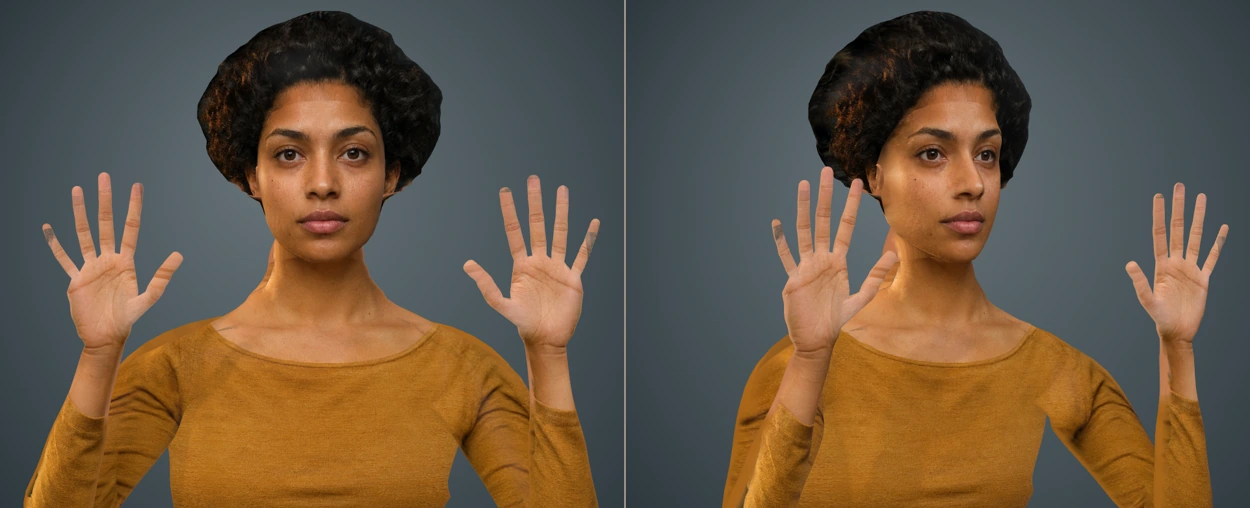
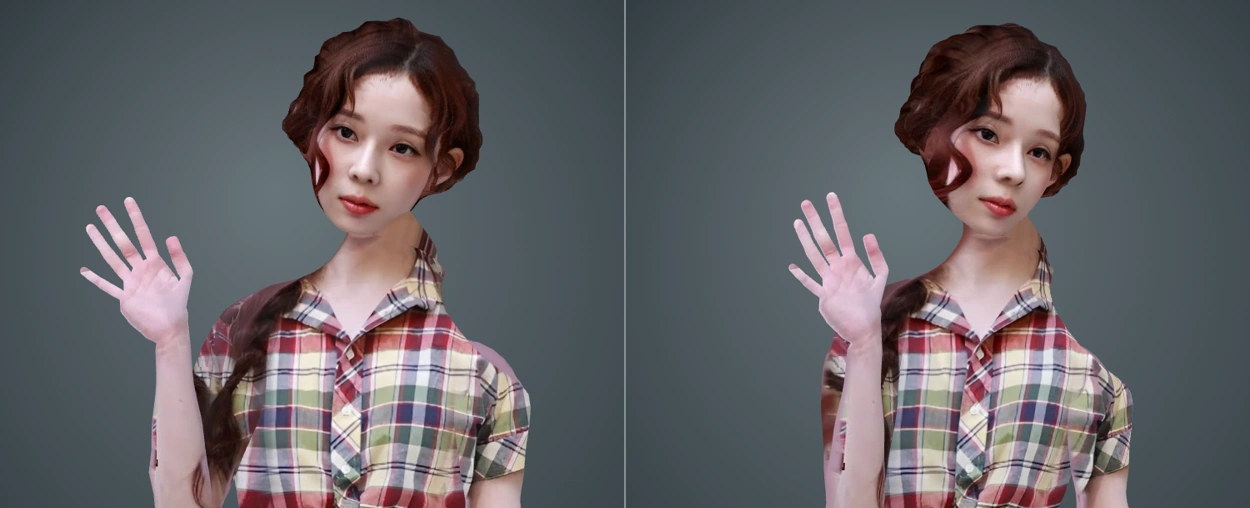
Feature Winter of aespa as the default Portrait Loom study

diff --git a/docs/portrait-stage/index.html b/docs/portrait-stage/index.html
@@ -1,5 +1,5 @@
 <!doctype html>
-<html lang="ko"><head><meta charset="utf-8"><meta name="viewport" content="width=device-width,initial-scale=1,viewport-fit=cover"><meta name="theme-color" content="#eee9e1"><meta name="description" content="Build and perform a textured 3D portrait from a photograph on your device."><title>Portrait Loom · Night Studies</title><link rel="icon" href="../mark.svg"><link rel="stylesheet" href="stage.css?v=204e5dbbc6"><script src="../i18n.js?v=e4aa568ccb"></script><script src="../common-locales.js?v=d89a249e9d"></script><script defer src="../library.js?v=e522b8cf6c"></script><script type="module" src="stage.mjs?v=1e95abb9b8"></script></head><body>
+<html lang="ko"><head><meta charset="utf-8"><meta name="viewport" content="width=device-width,initial-scale=1,viewport-fit=cover"><meta name="theme-color" content="#eee9e1"><meta name="description" content="Build and perform a textured 3D portrait from a photograph on your device."><title>Portrait Loom · Night Studies</title><link rel="icon" href="../mark.svg"><link rel="stylesheet" href="stage.css?v=20f4a73c2e"><script src="../i18n.js?v=e4aa568ccb"></script><script src="../common-locales.js?v=d89a249e9d"></script><script defer src="../library.js?v=e522b8cf6c"></script><script type="module" src="stage.mjs?v=981d91571f"></script></head><body>
 <main><nav class="topbar"><a href="../index.html" class="wordmark"><span class="mark" aria-hidden="true"></span>Night Studies</a><div class="nav-actions"><span data-language-picker></span><button type="button" data-library data-msg="shelf">작업 보관함</button><button type="button" class="nav-save" data-save-project data-msg="save">프로젝트 저장</button></div></nav>
 <header class="mast"><div><h1>Portrait <i>Loom</i></h1></div><p data-msg="intro">사진 한 장에서 입체 인물을 만들고, 조명을 고른 뒤 내 표정과 손으로 연기하세요.</p></header>
 <div class="workstation"><section class="stage-panel" aria-labelledby="stageHeading"><div class="stage-bar"><h2 id="stageHeading"><i class="lamp"></i><span data-msg="stage">초상 무대</span></h2><span class="spec" id="rigInfo" aria-live="polite"></span></div>
@@ -10,9 +10,10 @@
 <label class="view-control"><span data-msg="zoom">확대</span><input id="zoom" type="range" min="65" max="165" value="100"><output id="zoomValue" for="zoom">100%</output></label>
 <label class="light-control"><span data-msg="light">조명</span><select id="light"><option value="0" data-msg="softbox">소프트박스</option><option value="1" data-msg="windowLight">창가광</option><option value="2" data-msg="edgeLight">윤곽광</option></select></label>
 <button class="link" id="homeView" data-msg="resetView" type="button">시점 초기화</button></div>
-<div class="film-note"><div><b id="photoName" data-no-i18n>Atelier No. 1</b><span id="photoMeta" class="spec"></span></div><small id="modelStatus" class="spec" role="status"></small><div class="file-actions"><button id="glb" class="soft" type="button" data-msg="glb" disabled>3D 모델 저장</button><button id="download" class="print" type="button" disabled><span aria-hidden="true">↓</span><span data-msg="png">PNG 저장</span></button></div></div>
+<div class="film-note"><div><b id="photoName" data-no-i18n>에스파 윈터</b><span id="photoMeta" class="spec"></span></div><small id="modelStatus" class="spec" role="status"></small><div class="file-actions"><button id="glb" class="soft" type="button" data-msg="glb" disabled>3D 모델 저장</button><button id="download" class="print" type="button" disabled><span aria-hidden="true">↓</span><span data-msg="png">PNG 저장</span></button></div></div>
+<p id="sampleCredit" class="source-credit"><span data-msg="winterStudy">사진으로 재구성한 3D 인물</span> · <a href="https://commons.wikimedia.org/?curid=162907797" target="_blank" rel="noopener noreferrer">티비텐 (TV10)</a> · <a href="https://creativecommons.org/licenses/by/3.0/" target="_blank" rel="noopener noreferrer">CC BY 3.0</a></p>
 <div class="ns-performance" data-record-stage="portrait" data-filename="Portrait-Loom"></div>
-<section class="geometry" id="geometry" hidden><header><h3 data-msg="geometry">원판 기하 측정</h3><small id="geometryMode"></small></header><dl><div><dt data-msg="faceRatio">얼굴 가로 / 세로</dt><dd id="ratioMetric"></dd></div><div><dt data-msg="eyeRatio">양 눈 간격 / 얼굴 폭</dt><dd id="eyeMetric"></dd></div><div><dt data-msg="eyeTilt">눈 선 기울기</dt><dd id="tiltMetric"></dd></div></dl><details class="metric-detail"><summary data-msg="features">눈과 입 측정</summary><dl><div><dt data-msg="eyeOpening">눈 높이 / 너비 · 좌/우</dt><dd id="openingMetric"></dd></div><div><dt data-msg="mouthWidth">입 너비 / 얼굴 폭</dt><dd id="mouthMetric"></dd></div><div><dt data-msg="lipGap">입술 간격 / 입 너비</dt><dd id="gapMetric"></dd></div></dl></details></section></section><aside class="console" data-active="source"><div class="console-tabs"><button type="button" data-module="source" data-msg="plate" aria-pressed="true">사진 원판</button><button type="button" data-module="drive" data-msg="performer" aria-pressed="false">카메라 연기</button><button type="button" data-module="pose" data-msg="manual" aria-pressed="false">수동 조절</button></div><section class="source module"><header><h2 data-msg="plate">사진 원판</h2></header><div class="source-line"><img id="thumbnail" src="../assets/portrait-model.webp" alt=""><div><button class="soft" id="upload" type="button" data-msg="upload">내 사진 열기</button><p data-msg="formats">JPG · PNG · WebP, 18 MB 이하</p></div></div><div id="people" hidden></div><div class="quiet-row"><button id="areaBtn" type="button" class="link" data-msg="area">인물 영역 선택</button><button id="clearArea" type="button" class="link" hidden data-msg="fullImage">전체 사진 분석</button><button id="useExample" type="button" class="link" hidden data-msg="sample">기본 사진</button><button id="anchorBtn" class="link" type="button" data-msg="mark">얼굴 위치 지정</button><button id="cancelAnchor" class="link" type="button" hidden data-msg="cancel">취소</button></div><details class="setup-details"><summary data-msg="setup">세부 위치 지정</summary><div class="quiet-row"><button class="soft" id="detailFace" type="button" data-msg="detailFace">눈과 입 직접 표시</button><button class="soft" id="traceHand" type="button" data-msg="traceHand">보이는 손가락 표시</button><button class="link" type="button" id="clearMarks" hidden data-msg="clearMarks">수동 표시 해제</button></div></details><input id="photoFile" type="file" accept="image/jpeg,image/png,image/webp,image/gif,image/bmp,image/avif,image/heic,image/heif,.avif,.heic,.heif,.bmp,.gif" hidden><p id="sourceState" role="status"></p></section>
+<section class="geometry" id="geometry" hidden><header><h3 data-msg="geometry">원판 기하 측정</h3><small id="geometryMode"></small></header><dl><div><dt data-msg="faceRatio">얼굴 가로 / 세로</dt><dd id="ratioMetric"></dd></div><div><dt data-msg="eyeRatio">양 눈 간격 / 얼굴 폭</dt><dd id="eyeMetric"></dd></div><div><dt data-msg="eyeTilt">눈 선 기울기</dt><dd id="tiltMetric"></dd></div></dl><details class="metric-detail"><summary data-msg="features">눈과 입 측정</summary><dl><div><dt data-msg="eyeOpening">눈 높이 / 너비 · 좌/우</dt><dd id="openingMetric"></dd></div><div><dt data-msg="mouthWidth">입 너비 / 얼굴 폭</dt><dd id="mouthMetric"></dd></div><div><dt data-msg="lipGap">입술 간격 / 입 너비</dt><dd id="gapMetric"></dd></div></dl></details></section></section><aside class="console" data-active="source"><div class="console-tabs"><button type="button" data-module="source" data-msg="plate" aria-pressed="true">사진 원판</button><button type="button" data-module="drive" data-msg="performer" aria-pressed="false">카메라 연기</button><button type="button" data-module="pose" data-msg="manual" aria-pressed="false">수동 조절</button></div><section class="source module"><header><h2 data-msg="plate">사진 원판</h2></header><div class="source-line"><img id="thumbnail" src="../assets/winter-wave.webp" alt=""><div><button class="soft" id="upload" type="button" data-msg="upload">내 사진 열기</button><p data-msg="formats">JPG · PNG · WebP, 18 MB 이하</p></div></div><div id="people" hidden></div><div class="quiet-row"><button id="areaBtn" type="button" class="link" data-msg="area">인물 영역 선택</button><button id="clearArea" type="button" class="link" hidden data-msg="fullImage">전체 사진 분석</button><button id="useExample" type="button" class="link" hidden data-msg="sample">기본 사진</button><button id="anchorBtn" class="link" type="button" data-msg="mark">얼굴 위치 지정</button><button id="cancelAnchor" class="link" type="button" hidden data-msg="cancel">취소</button></div><details class="setup-details"><summary data-msg="setup">세부 위치 지정</summary><div class="quiet-row"><button class="soft" id="detailFace" type="button" data-msg="detailFace">눈과 입 직접 표시</button><button class="soft" id="traceHand" type="button" data-msg="traceHand">보이는 손가락 표시</button><button class="link" type="button" id="clearMarks" hidden data-msg="clearMarks">수동 표시 해제</button></div></details><input id="photoFile" type="file" accept="image/jpeg,image/png,image/webp,image/gif,image/bmp,image/avif,image/heic,image/heif,.avif,.heic,.heif,.bmp,.gif" hidden><p id="sourceState" role="status"></p></section>
 <section class="drive module"><header><h2 data-msg="performer">카메라 연기</h2></header><p class="hint" data-msg="cameraHint">정면을 보며 카메라를 켜고, 편안한 표정으로 기준 자세를 맞추세요.</p><button class="camera" id="camera" type="button" data-msg="start">카메라 켜기</button><div class="monitor" hidden><video id="video" muted playsinline></video><div><b data-msg="monitor">라이브 입력</b><small id="channels"></small></div></div><div class="cam-options" hidden><button class="soft" id="calibrate" type="button" data-msg="calibrate">기준 자세 다시 맞추기</button><label class="slider"><span data-msg="response">반응 강도</span><input type="range" id="gain" min="40" max="170" step="1" value="100"><output for="gain">100%</output></label></div><label class="slider body-option" hidden><span data-msg="bodyGain">몸 움직임</span><input type="range" id="bodyGain" min="0" max="125" value="80"><output for="bodyGain">80%</output></label><p id="trackingState" role="status"></p></section>
 <section class="module pose"><header><h2 data-msg="manual">수동 조절</h2></header><div id="sliders"></div><details class="setup-details"><summary data-msg="expressionDetails">시선과 좌우 표정</summary><div id="fineSliders"></div></details><button id="reset" type="button" class="link" data-msg="reset">수동 조절 초기화</button></section>
-</aside></div><footer><p data-msg="privacy">사진과 카메라 영상은 이 기기에서 처리됩니다.</p><span>Night Studies</span></footer><div id="notice" role="status" aria-live="polite"></div></main><script defer src="../performance-record.js?v=0b50e85fee"></script></body></html>
+</aside></div><footer><p data-msg="privacy">사진과 카메라 영상은 이 기기에서 처리됩니다.</p><span>Night Studies</span></footer><div id="notice" role="status" aria-live="polite"></div></main><script defer src="../performance-record.js?v=1775e8c7f4"></script></body></html>

diff --git a/docs/index.html b/docs/index.html
@@ -25,7 +25,7 @@
     <div class="stages-head"><h2 id="stages-title">카메라 무대</h2><p>카메라 영상과 사진은 기기에서 처리됩니다.</p></div>
     <div class="stage-shelf">
       <a class="stage-link" href="spell-stage/"><div class="stage-art"><img src="assets/astral-cover.webp?v=8d57b9cbe1" alt="카메라 속 손 주위로 모여드는 은빛 입자 구름"></div><div class="stage-details"><div><h3 lang="en" translate="no">Astral Atelier</h3><p>은빛 입자를 손바닥에 모아 두 손 사이로 늘이고 흩뿌립니다.</p></div><span>마법 무대 열기</span></div></a>
-      <a class="stage-link" href="portrait-stage/"><div class="stage-art"><img src="assets/loom-cover.webp?v=9b03b77481" alt="한 장의 사진에서 만든 3D 인물의 정면과 사선 시점"></div><div class="stage-details"><div><h3 lang="en" translate="no">Portrait Loom</h3><p>사진으로 3D 인물을 만들어 돌려 보고 내 표정과 손으로 연기합니다.</p></div><span>인물 무대 열기</span></div></a>
+      <a class="stage-link" href="portrait-stage/"><div class="stage-art"><img src="assets/loom-cover.webp?v=97ac20e2a3" alt="한 장의 사진에서 만든 3D 인물의 정면과 사선 시점"></div><div class="stage-details"><div><h3 lang="en" translate="no">Portrait Loom</h3><p>사진으로 3D 인물을 만들어 돌려 보고 내 표정과 손으로 연기합니다.</p></div><span>인물 무대 열기</span></div></a>
     </div>
   </section>
   <section class="desk" id="studios" aria-label="편집실과 하우스 에디션">
@@ -50,6 +50,6 @@
   </section>
   <noscript><div class="noscript">JavaScript를 켜 주세요. Enable JavaScript. Bitte JavaScript aktivieren. <a href="last-train/">막차</a> · <a href="foley-club/">폴리 클럽</a> · <a href="light-table/">라이트 테이블</a></div></noscript>
 </main>
-<footer class="shell"><span>Night Studies <i>Youngsoo Oh</i></span><a href="https://github.com/oyoungsoo97-hub/night-studies">GitHub 소스</a></footer>
+<footer class="shell"><span>Night Studies <i>Youngsoo Oh</i></span><a href="https://commons.wikimedia.org/?curid=162907797" lang="en" translate="no">Winter · TV10</a><a href="https://creativecommons.org/licenses/by/3.0/" lang="en" translate="no">CC BY 3.0</a><a href="https://github.com/oyoungsoo97-hub/night-studies">GitHub 소스</a></footer>
 </body>
 </html>

diff --git a/docs/performance-record.js b/docs/performance-record.js
@@ -40,7 +40,12 @@
     try{
       const canvas=document.createElement('canvas'), scale=Math.min(1,1280/Math.max(source.width,source.height));
       canvas.width=Math.max(2,2*Math.round(source.width*scale/2));canvas.height=Math.max(2,2*Math.round(source.height*scale/2));
-      const ctx=canvas.getContext('2d',{alpha:false});ctx.drawImage(source,0,0,canvas.width,canvas.height);
+      const ctx=canvas.getContext('2d',{alpha:false});
+      function drawFrame(){
+        ctx.drawImage(source,0,0,canvas.width,canvas.height);
+        if(host.dataset.recordStage==='portrait')source.dispatchEvent(new CustomEvent('night-record-frame',{detail:ctx}));
+      }
+      drawFrame();
       stream=canvas.captureStream(24);
       const mix=audioTrack();
       if(mix)stream.addTrack(mix.clone());
@@ -60,7 +65,7 @@
         recorder=null;labels();
       };
       let last=0;started=performance.now();problem=false;
-      function tick(now){if(!recorder||recorder.state!=='recording')return;if(now-last>=1000/25){ctx.drawImage(source,0,0,canvas.width,canvas.height);last=now;}paint=requestAnimationFrame(tick);}
+      function tick(now){if(!recorder||recorder.state!=='recording')return;if(now-last>=1000/25){drawFrame();last=now;}paint=requestAnimationFrame(tick);}
       recorder.start(250);paint=requestAnimationFrame(tick);labels();
       clock=setInterval(()=>{if(performance.now()-started>=maxSeconds*1000)finish();else labels();},200);
     }catch{cleanup();recorder=null;problem=true;labels();}

diff --git a/docs/portrait-stage/stage.css b/docs/portrait-stage/stage.css
@@ -10,3 +10,6 @@
 .render-desk{display:flex;flex-wrap:wrap;align-items:center;gap:12px 22px;padding:12px 15px;background:#e2ded7;border:1px solid #ccc3c7;border-top:0}
 .view-control,.light-control,.file-actions{display:flex;align-items:center;gap:8px}.view-control,.light-control{font-size:14px}.view-control input{width:clamp(60px,8vw,120px);accent-color:#645168}.view-control output{min-width:3.3ch;font:13px ui-monospace,monospace}.light-control select{padding:5px;border:1px solid #afa3ab;background:#f4f0ea;font:inherit}.film-note{gap:12px;flex-wrap:wrap}.film-note #modelStatus{margin-inline-start:auto}.file-actions{margin-left:0}.framing #portrait{touch-action:none}.render-desk .link{margin-inline-start:auto}.file-actions button{min-height:38px}
 @media(max-width:650px){.render-desk{gap:9px 16px}.render-desk .link{margin-inline-start:0}.file-actions{margin-inline-start:auto}.film-note #modelStatus{flex:1;text-align:end}.film-note{row-gap:7px}}
+
+.source-credit{margin:.6rem 0 0;font-size:.875rem;line-height:1.5;color:inherit}
+.source-credit a{color:inherit;text-underline-offset:.15em}

diff --git a/docs/spell-stage/index.html b/docs/spell-stage/index.html
@@ -35,4 +35,4 @@
 </aside>
 </div></main>
 <dialog id="clearDialog"><form method="dialog"><p data-t="clearAsk"></p><div><button value="cancel" data-t="cancel" autofocus></button><button class="save-project" value="clear" data-t="clear"></button></div></form></dialog>
-<script defer src="../performance-record.js?v=0b50e85fee"></script></body></html>
+<script defer src="../performance-record.js?v=1775e8c7f4"></script></body></html>

diff --git a/CREDITS.md b/CREDITS.md
@@ -1,10 +1,20 @@
 # Credits · 제작 정보 · Bildnachweise
 
-**English.** The station, carriage, corridor, figures, diner, portrait, lake and spell textures are original generated imagery for Night Studies. The portrait shows a fictional adult with both palms visible, photographed against a teal studio backdrop. It was generated for this release with the built-in ImageGen tool. The Foley instruments and the stereo spell sounds are synthesized. The camera stages use local landmark detection.
+**English.** The station, carriage, corridor, figures, diner, original studio portrait, lake and spell textures are original generated imagery for Night Studies. The original Atelier No. 1 portrait shows a fictional adult with both palms visible, photographed against a teal studio backdrop. It was generated for this release with the built-in ImageGen tool. The Foley instruments and the stereo spell sounds are synthesized. The camera stages use local landmark detection.
 
-**한국어.** 승강장·열차·복도·인물·식당·초상·호수·주문 텍스처 이미지는 Night Studies를 위해 생성했습니다. 기본 초상은 청록색 스튜디오 배경 앞에서 양손을 편 가상의 성인을 묘사합니다. 이번 배포용으로 내장 ImageGen을 사용했습니다. 폴리 악기와 스테레오 주문음은 직접 합성했으며, 카메라 무대의 좌표 추적은 기기 안에서 실행됩니다.
+**한국어.** 승강장·열차·복도·인물·식당·초상·호수·주문 텍스처 이미지는 Night Studies를 위해 생성했습니다. 이전 기본 예시인 아틀리에 1번은 청록색 스튜디오 배경 앞에서 양손을 편 가상의 성인을 묘사합니다. 이번 배포용으로 내장 ImageGen을 사용했습니다. 폴리 악기와 스테레오 주문음은 직접 합성했으며, 카메라 무대의 좌표 추적은 기기 안에서 실행됩니다.
 
-**Deutsch.** Bahnhof, Zug, Flur, Figuren, Diner, Porträt, See und Zaubertexturen wurden für Night Studies generiert. Das mit dem integrierten ImageGen erstellte Porträt zeigt eine fiktive erwachsene Person mit offenen Handflächen vor einem petrolfarbenen Studiohintergrund. Die Foley-Instrumente und die Stereo-Zauberklänge werden synthetisiert. Die Kamerabühnen erfassen Bewegungspunkte lokal.
+**Deutsch.** Bahnhof, Zug, Flur, Figuren, Diner, Porträt, See und Zaubertexturen wurden für Night Studies generiert. Das ursprüngliche, mit dem integrierten ImageGen erstellte Atelierporträt zeigt eine fiktive erwachsene Person mit offenen Handflächen vor einem petrolfarbenen Studiohintergrund. Die Foley-Instrumente und die Stereo-Zauberklänge werden synthetisiert. Die Kamerabühnen erfassen Bewegungspunkte lokal.
+
+## Winter (aespa) · 에스파 윈터
+
+**한국어.** 기본 예시는 2025년 3월 26일 폴로 랄프 로렌 행사에서 윈터가 손인사하는 티비텐(TV10) 영상의 한 장면입니다. 사진을 상반신 중심으로 잘라 WebP로 변환하고 인물의 3D 메시와 텍스처를 재구성했습니다.
+
+**English.** The default study uses a frame of Winter waving at the Polo Ralph Lauren photo call on 26 March 2025. The source frame by TV10 was cropped and converted to WebP, then used for the reconstructed mesh, textures and gallery views.
+
+**Deutsch.** Die Standardstudie zeigt Winter beim Winken auf dem Fototermin von Polo Ralph Lauren am 26. März 2025. Das Standbild von TV10 wurde zugeschnitten, in WebP umgewandelt und als Grundlage für das 3D-Modell, seine Texturen und die Galerieansichten verwendet.
+
+[Original · 티비텐 (TV10) · Wikimedia Commons](https://commons.wikimedia.org/?curid=162907797) · [Creative Commons Attribution 3.0](https://creativecommons.org/licenses/by/3.0/)
 
 ## MediaPipe · 얼굴·손·몸 추적 · Gesichts-, Hand- und Körpertracking
 
